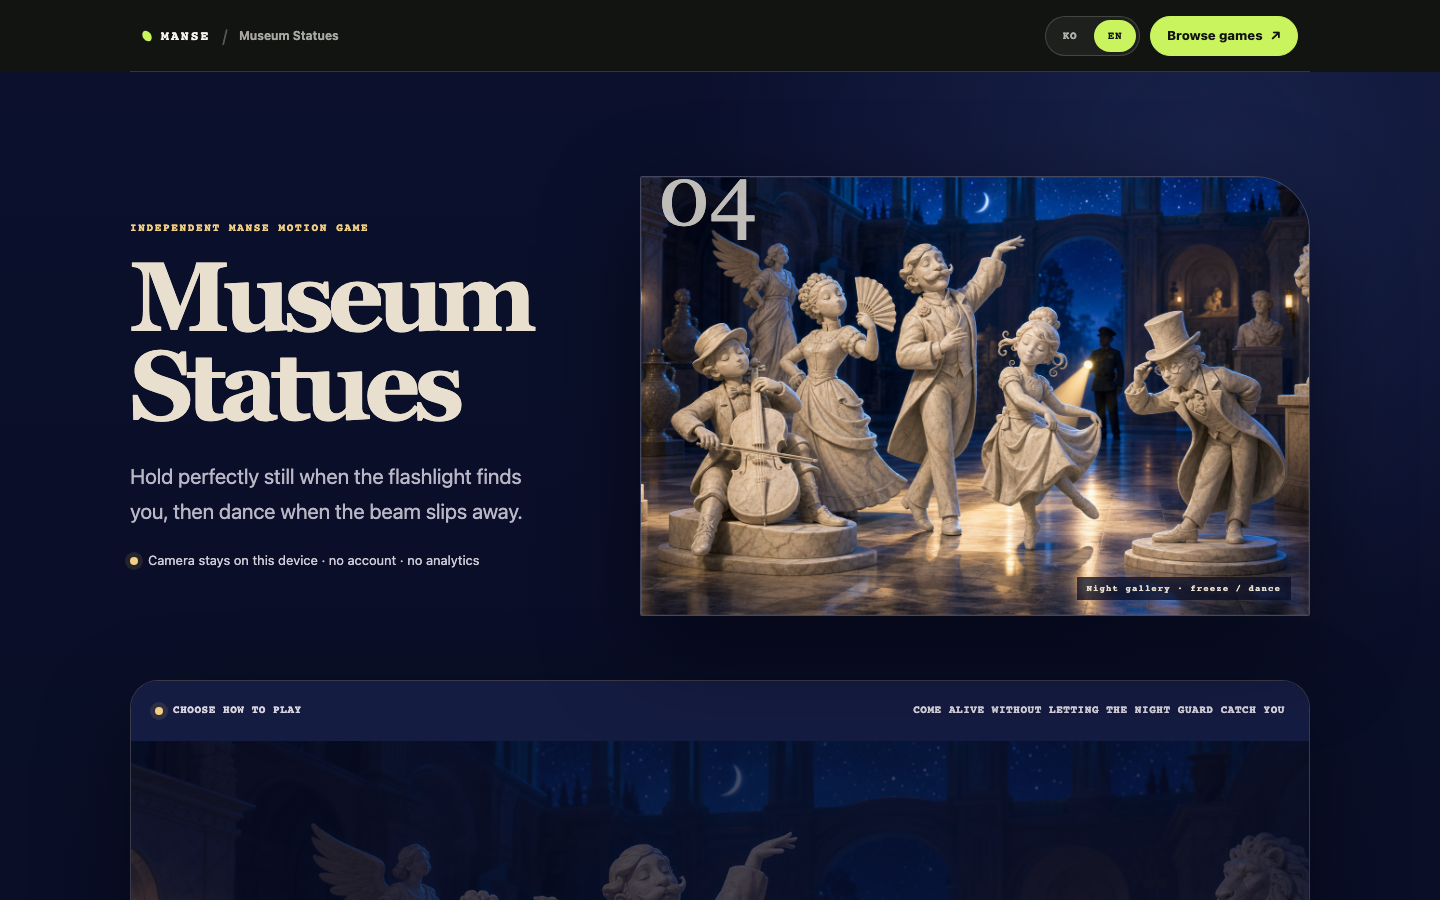
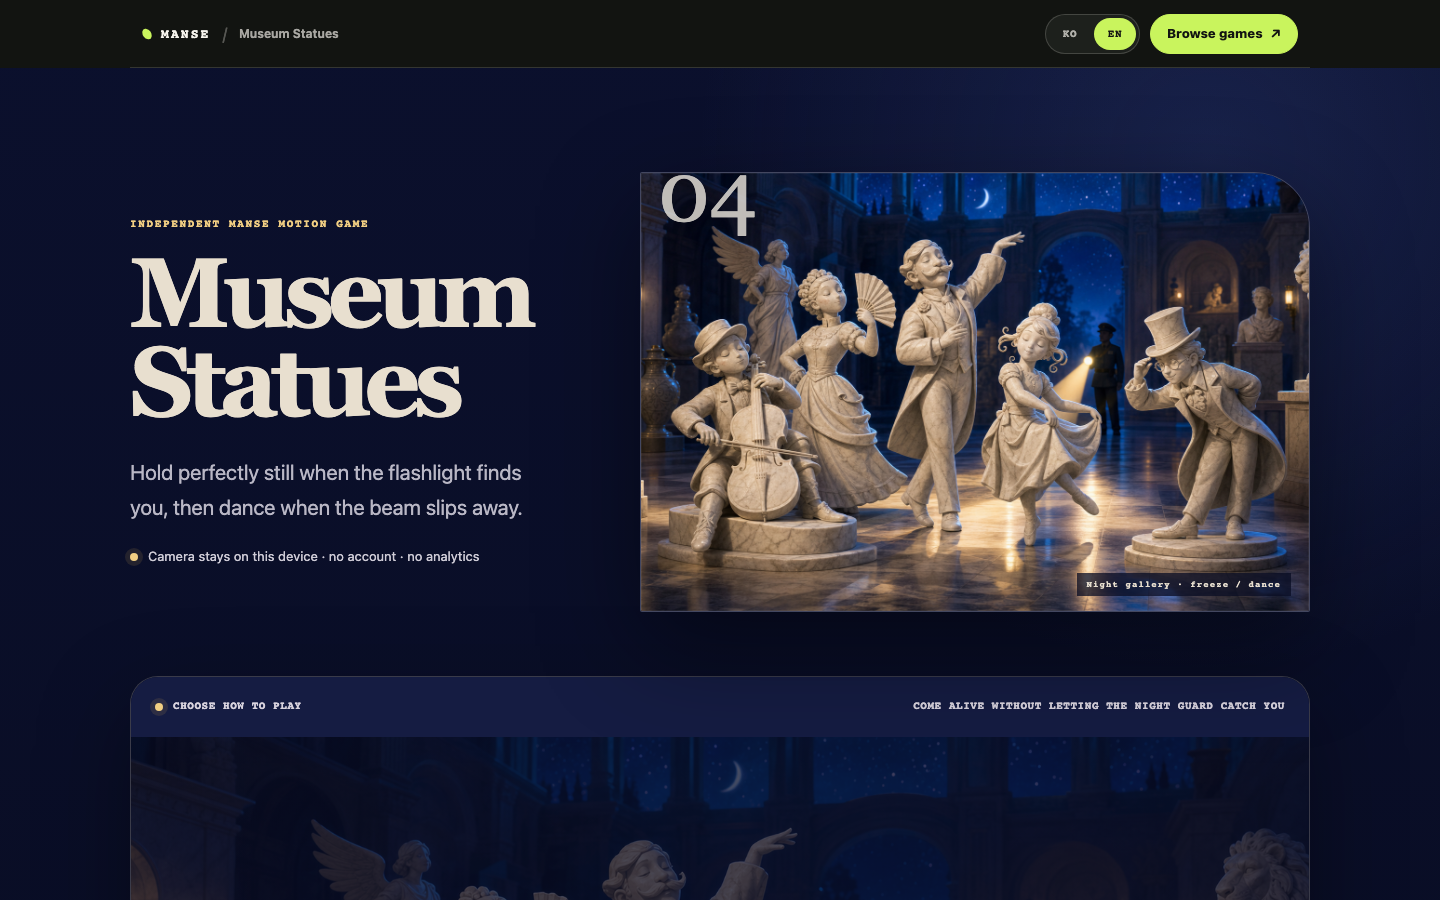
Align Museum platform bar height

diff --git a/app/globals.css b/app/globals.css
@@ -32,7 +32,7 @@ button:disabled { cursor: wait; opacity: .56; }
 button.secondary { border: 1px solid rgba(232, 223, 207, .38); background: rgba(9, 13, 36, .38); color: var(--marble); }
 a { color: var(--gold-bright); }
 main { width: min(1180px, calc(100% - 40px)); margin: 0 auto; }
-.platform-shell { min-height: 72px; display: flex; align-items: center; justify-content: space-between; gap: 20px; padding: 0 12px; border-bottom: 1px solid rgba(247, 245, 238, .15); background: var(--manse-black); color: var(--manse-white); box-shadow: 0 0 0 100vmax var(--manse-black); clip-path: inset(0 -100vmax); white-space: nowrap; }
+.platform-shell { min-height: 68px; display: flex; align-items: center; justify-content: space-between; gap: 20px; padding: 0 12px; border-bottom: 1px solid rgba(247, 245, 238, .15); background: var(--manse-black); color: var(--manse-white); box-shadow: 0 0 0 100vmax var(--manse-black); clip-path: inset(0 -100vmax); white-space: nowrap; }
 .platform-identity, .platform-actions { min-width: 0; display: flex; align-items: center; }
 .platform-identity { gap: 12px; overflow: hidden; }
 .platform-actions { flex: 0 0 auto; gap: 10px; }
